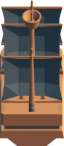
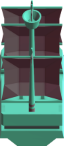
Ghost ship graphics added, enemy spawn timeout added, fixes

diff --git a/src/components/Game/Objects/EnemyShip.js b/src/components/Game/Objects/EnemyShip.js
@@ -7,27 +7,95 @@ import * as C from '../Constants';
 
 class EnemyShip extends GameObject {
 
-  constructor(context, canvas, width, height, matrixOfMapForWater, matrixOfMapForWaterXY, getTileCoordinates, gameOver) {
+  constructor(context, canvas, width, height, matrixOfMapForWater, matrixOfMapForWaterXY, getTileCoordinates, gameOver, timeoutSeconds = 1) {
 
-    super(context, canvas, width, height, 0, 0, 5);
+    super(context, canvas, width, height, 0, 0, 1);
 
     this.getTileCoordinates = getTileCoordinates;
     this.gameOver = gameOver;
     this.bg = Sprites.getEnemyShip();
     this.matrixOfMapForWater = matrixOfMapForWater;
-    this.reset();
 
-    this.active = true; // true if should be hit-tested with shot cannon balls, false if should be drawn on screen nut NOT be hit-tested
+    this.active = true; // true if should be drawn on screen
     this.timeout = null;
+    this.timeoutSeconds = timeoutSeconds;
+    this.timeout = setTimeout(() => {
+      this.reset();
+    }, this.timeoutSeconds*1000);
+
+    this.initialLoadDone = false;
+  }
+
+  reset = () => {
+    let mapSide = this.getRndMapSide();
+    this.removeEnemyWarnings();
+
+    if (mapSide === 'top') {
+      this.xI = this.getRndInteger(0, 19);
+      this.yI = 0;
+      if (this.xI <= 12) {
+        this.canvas.classList.add('warning_shadow_left');
+      } else {
+        this.canvas.classList.add('warning_shadow_top');
+      }
+    } else if (mapSide === 'bottom') {
+      this.xI = this.getRndInteger(0, 17);
+      this.yI = 23;
+      if (this.xI <= 12) {
+        this.canvas.classList.add('warning_shadow_bottom');
+      } else {
+        this.canvas.classList.add('warning_shadow_right');
+      }
+    } else if (mapSide === 'left') {
+      this.xI = 0;
+      this.yI = this.getRndInteger(0, 24);
+      if (this.yI <= 12) {
+        this.canvas.classList.add('warning_shadow_left');
+      } else {
+        this.canvas.classList.add('warning_shadow_bottom');
+      }
+    } else if (mapSide === 'right') {
+      this.xI = 23;
+      this.yI = this.getRndInteger(5, 23);
+      if (this.yI <= 12) {
+        this.canvas.classList.add('warning_shadow_top');
+      } else {
+        this.canvas.classList.add('warning_shadow_right');
+      }
+    }
+    this.warningTimeout = setTimeout(() => {
+      this.removeEnemyWarnings();
+    }, 3000);
+
+    let sourceTileCoords =this. getTileCoordinates(this.xI, this.yI);
+    this.x = sourceTileCoords.tileX - this.width/2;
+    this.y = sourceTileCoords.tileY - this.height/2;
+
+    this.finder = new PF.AStarFinder({allowDiagonal: true, dontCrossCorners: true});
+    let grid = new PF.Grid(this.matrixOfMapForWater);
+    let target = MapData.enemyWinTargetPositions[this.getRndInteger(0, 3)]; // three, because getRndInteger uses Math.floor
+    this.path = this.finder.findPath(this.xI, this.yI, target[0], target[1], grid);
+    this.targetTileCoords = this.getTileCoordinates(this.path[0][0], this.path[0][1]);
+    this.targetXScreen = this.targetTileCoords.tileX + MapData.tileDiagonalWidth/2;
+    this.targetYScreen = this.targetTileCoords.tileY + MapData.tileDiagonalHeight/2;
+    this.angle = this.calculateDirectionAngle();
+    this.newAngleSpriteIndex = 0;
+
+    this.destroyed = false;
+    this.destructionAnimFrame = 1;
+    this.active = true;
+    this.initialLoadDone = true;
   }
 
   draw = () => {
-    if (this.destroyed === false) {
-      let shipSprite = this.getEnemyShipSprite();
-      let done = this.steer();
-      this.context.drawImage(shipSprite, this.x, this.y, this.width, this.height);
-    } else {
-      this.playDestructionAnim();
+    if (this.initialLoadDone === true && this.active === true) {
+      if (this.destroyed === false) {
+        let shipSprite = this.getEnemyShipSprite();
+        let done = this.steer();
+        this.context.drawImage(shipSprite, this.x, this.y, this.width, this.height);
+      } else {
+        this.playDestructionAnim();
+      }
     }
   }
 
@@ -35,14 +103,18 @@ class EnemyShip extends GameObject {
     let shipSprite = this.getEnemyShipSprite();
     let hIncrement = this.height/30;
     this.context.drawImage(shipSprite, 0, 0, this.width, hIncrement*(30 - this.destructionAnimFrame), this.x, this.y + (hIncrement*this.destructionAnimFrame), this.width, hIncrement*(30 - this.destructionAnimFrame));
-    this.active = false;
 
     if (this.destructionAnimFrame === 1) {
       Sounds.playCrashSound();
     }
-    this.destructionAnimFrame++;
-    if (this.destructionAnimFrame > 30) {
-      this.reset();
+
+    if (this.destructionAnimFrame === 31) {
+      this.active = false;
+      this.timeout = setTimeout(() => {
+        this.reset();
+      }, this.timeoutSeconds * 1000);
+    } else {
+      this.destructionAnimFrame++;
     }
   }
 
@@ -84,7 +156,6 @@ class EnemyShip extends GameObject {
               let done = this.calculateDirectionAngle();
             } else {
               this.gameOver(); // enemy reached the target tower destination
-              this.active = false;
             }
           }
         }
@@ -140,66 +211,6 @@ class EnemyShip extends GameObject {
     this.angle = Math.atan2(this.targetXScreen - wrapperCenter[0], - (this.targetYScreen - wrapperCenter[1])) * (180/Math.PI);
 
     return this.angle;
-  }
-
-  reset = () => {
-    let mapSide = this.getRndMapSide();
-    this.removeEnemyWarnings();
-
-    if (mapSide === 'top') {
-      this.xI = this.getRndInteger(0, 18);
-      this.yI = 0;
-      if (this.xI <= 12) {
-        this.canvas.classList.add('warning_shadow_left');
-      } else {
-        this.canvas.classList.add('warning_shadow_top');
-      }
-    } else if (mapSide === 'bottom') {
-      this.xI = this.getRndInteger(0, 16);
-      this.yI = 23;
-      if (this.xI <= 12) {
-        this.canvas.classList.add('warning_shadow_bottom');
-      } else {
-        this.canvas.classList.add('warning_shadow_right');
-      }
-    } else if (mapSide === 'left') {
-      this.xI = 0;
-      this.yI = this.getRndInteger(0, 23);
-      if (this.yI <= 12) {
-        this.canvas.classList.add('warning_shadow_left');
-      } else {
-        this.canvas.classList.add('warning_shadow_bottom');
-      }
-    } else if (mapSide === 'right') {
-      this.xI = 23;
-      this.yI = this.getRndInteger(5, 23);
-      if (this.yI <= 12) {
-        this.canvas.classList.add('warning_shadow_top');
-      } else {
-        this.canvas.classList.add('warning_shadow_right');
-      }
-    }
-    this.warningTimeout = setTimeout(() => {
-      this.removeEnemyWarnings();
-    }, 3000);
-
-    let sourceTileCoords =this. getTileCoordinates(this.xI, this.yI);
-    this.x = sourceTileCoords.tileX - this.width/2;
-    this.y = sourceTileCoords.tileY - this.height/2;
-
-    this.finder = new PF.AStarFinder({allowDiagonal: true, dontCrossCorners: true});
-    let grid = new PF.Grid(this.matrixOfMapForWater);
-    let target = MapData.enemyWinTargetPositions[this.getRndInteger(0, 2)];
-    this.path = this.finder.findPath(this.xI, this.yI, target[0], target[1], grid);
-    this.targetTileCoords = this.getTileCoordinates(this.path[0][0], this.path[0][1]);
-    this.targetXScreen = this.targetTileCoords.tileX + MapData.tileDiagonalWidth/2;
-    this.targetYScreen = this.targetTileCoords.tileY + MapData.tileDiagonalHeight/2;
-    this.angle = this.calculateDirectionAngle();
-    this.newAngleSpriteIndex = 0;
-
-    this.destroyed = false;
-    this.destructionAnimFrame = 1;
-    this.active = true;
   }
 
   removeEnemyWarnings = () => {

diff --git a/src/components/Game/Game.jsx b/src/components/Game/Game.jsx
@@ -297,7 +297,8 @@ class Game extends React.Component {
           this.allowedTilesOnWaterMapYX,
           this.allowedTilesOnWaterMapXY,
           this.getTileCoordinates,
-          this.gameOver)
+          this.gameOver,
+          i * 5)
       );
     }
   }
@@ -387,6 +388,35 @@ class Game extends React.Component {
     return this.fps;
   }
 
+  /*
+    Basic draw order deciding function for enemy ships.
+    Not perfect as the ships are ghost ships, so no need ...
+
+    @returns {array} arranged enemy ship objects in 'back to front' order
+  */
+  getEnemyDrawOrder = () => {
+    let enemyDrawOrder = [];
+    for (let enemy of this.enemies) {
+      if (enemyDrawOrder.length === 0) {
+        enemyDrawOrder.push(enemy);
+      } else {
+        let index = -1;
+        for (let i = enemyDrawOrder.length - 1; i >= 0 ; i--) {
+          if (enemy.yI <= enemyDrawOrder[i].yI) {
+            index = i;
+          }
+        }
+        if (index === -1) {
+           enemyDrawOrder.push(enemy);
+        } else {
+          enemyDrawOrder.splice(index, 0, enemy);
+        }
+      }
+    }
+
+    return enemyDrawOrder;
+  }
+
   drawFrame = () => {
     // reset
     this.context.setTransform(1, 0, 0, 1, 0, 0);
@@ -419,8 +449,9 @@ class Game extends React.Component {
     this.playerObjects[0].draw();
 
     // Draw enemies
-    for (let enemy of this.enemies) {
-      if (MapData.areTileLayersNextTo(enemy.xI, enemy.yI) === true) {
+    let enemyDrawOrder = this.getEnemyDrawOrder();
+    for (let enemy of enemyDrawOrder) {
+      if (enemy.initialLoadDone === true && MapData.areTileLayersNextTo(enemy.xI, enemy.yI) === true) {
         enemy.draw();
       }
     }
@@ -433,8 +464,8 @@ class Game extends React.Component {
     }
 
     // Draw enemies
-    for (let enemy of this.enemies) {
-      if (MapData.areTileLayersNextTo(enemy.xI, enemy.yI) === false) {
+    for (let enemy of enemyDrawOrder) {
+      if (enemy.initialLoadDone === true && MapData.areTileLayersNextTo(enemy.xI, enemy.yI) === false) {
         enemy.draw();
       }
     }
@@ -447,7 +478,7 @@ class Game extends React.Component {
 
     // Enemy hits
     for (let enemy of this.enemies) {
-      if(enemy.destroyed === false && enemy.active === true) {
+      if(enemy.initialLoadDone === true && enemy.destroyed === false) {
         // did player's cannon balls hit the enemy?
         let cannonBalls = this.playerObjects[0].getActiveCannonBalls();
         for (let cannonBall of cannonBalls) {
@@ -460,6 +491,7 @@ class Game extends React.Component {
         }
       }
     }
+
     if (this.GAME_OVER === true) {
       this.drawEndScreen();
     }

diff --git a/src/components/SubMenu.jsx b/src/components/SubMenu.jsx
@@ -40,9 +40,11 @@ class SubMenu extends React.Component {
     return <div className='extra_info'>
       <div>
         <p>
-          Pirate's Oasis is a  mouse controlled isometric pirate-themed game. The goal of the game is to prevent enemy ships reaching the three towers on the island.
-          It uses React framework as a base for the app and HTML5 Canvas API for the game itself.
-          The game is designed for desktop browsers.
+          Pirate's Oasis is a  mouse controlled isometric pirate-themed game.
+          The goal of the game is to prevent enemy ghost pirate ships from reaching the three towers on the island
+          and stealing your treasure, hidden in the skull cave.
+          The game uses React framework as a base for the app and HTML5 Canvas API for the game itself.
+          It is designed for desktop browsers.
         </p>
           <a href={conf.git_url} target='_blank'>Link to GitHub</a>
         <p>

diff --git a/src/components/Game/Objects/Player.js b/src/components/Game/Objects/Player.js
@@ -104,7 +104,7 @@ class Player extends GameObject {
   shoot = () => {
     let targetDist = this.calculateDistance(this.targetXScreenFinalPos, this.targetYScreenFinalPos);
 
-    if (this.justFired === false && targetDist <= 600) {
+    if (this.justFired === false && targetDist <= 800) {
       let startPoint = this.calculateShootingStartPoint();
       this.cannonBalls.push(
         new CannonBall(
@@ -173,7 +173,7 @@ class Player extends GameObject {
       this.targetYScreen = Math.floor(e.pageY - this.canvas.getBoundingClientRect().top - this.getOriginY());
       let targetDist = this.calculateDistance(this.targetXScreen, this.targetYScreen);
       if (MapData.allowedTilesOnWater.indexOf(MapData.map[selectedXi][selectedYi]) !== -1) {
-        if (targetDist <= 600) {
+        if (targetDist <= 800) {
           this.canvas.style = 'cursor: crosshair;'
         } else {
           this.canvas.style = 'cursor: no-drop;'

diff --git a/src/components/Game/Objects/Map/Map_L1.js b/src/components/Game/Objects/Map/Map_L1.js
@@ -73,7 +73,7 @@ const MapData = {
   ], // hard coded exclusions on allowed tiles [Xi, Yi] (for creating the allowed matrix map for water area)
   allowedTilesOnLand: [0, 1, 2, 3, 7, 8, 9, 10, 11, 12, 13, 14, 15, 16, 17, 18, 19, 20, 21, 22, 43],
   enemyWinTargetPositions: [
-    [5, 12], [11, 14], [16, 7], [11, 14], [16, 5], [16, 6]  // first 3 indexes are the tower targets and rest are for allowing pathfinding to those targets
+    [5, 12], [11, 14], [18, 6], [11, 14], [16, 5], [16, 6]  // first 3 indexes are the tower targets and rest are for allowing pathfinding to those targets
   ],
   tiles: [
     {src: 'assets/images/base.png', width: 150, height: 75}, // 0

diff --git a/src/components/Game/Objects/Tile.js b/src/components/Game/Objects/Tile.js
@@ -15,7 +15,7 @@ class Tile {
     this.baseTileSprite = Sprites.getTile(MapData.map[xI][yI]);
     this.layers = layers;
     this.allowPlayerMovement = layers === null ? false : true; // if there are layers on the tile, no player movement allowed
-    this.speed = 0.5;
+    this.speed = 0.2;
     this.animate = false;
     if (this.baseTileSprite.src.indexOf('water_waves') !== -1) {
       this.animate = true;
